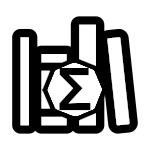
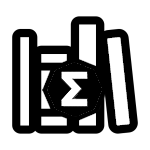
img updates

Changed region(s): [[0.2933, 0.4, 0.6933, 0.7733]]

diff --git a/Netnotes/src/main/java/com/netnotes/RangeBar.java b/Netnotes/src/main/java/com/netnotes/RangeBar.java
@@ -180,12 +180,14 @@ public class RangeBar extends ImageView implements ControlInterface{
             MenuButton rangeStyleBtn = new MenuButton(m_rangeStyle.getName());
             rangeStyleBtn.setPrefWidth(60);
             rangeStyleBtn.setPrefHeight(20);
+
             HBox rangeStyleBox = new HBox(rangeStyleBtn);
             rangeStyleBox.setId("urlField");
+            rangeStyleBox.setPrefHeight(20);
          
             VBox rangeStyleBtnBox = new VBox(rangeStyleBox);
             rangeStyleBtnBox.setAlignment(Pos.CENTER);
-            rangeStyleBtnBox.setPadding(new Insets(3,5,3,5));
+            rangeStyleBtnBox.setPadding(new Insets(0,5,0,5));
             
            
             MenuItem autoRangeStyleItem = new MenuItem(RangeStyle.AUTO);
@@ -556,11 +558,11 @@ public class RangeBar extends ImageView implements ControlInterface{
 
             if (m_topVvalue.get() == 1 && m_bottomVvalue.get() == 0) {
 
-                Drawing.fillArea(m_imgBuf,m_pR, m_pW, 0x50111111, x1, (height / 2) - 10, x2, (height / 2) + 10, true);
+               // Drawing.fillArea(m_imgBuf,m_pR, m_pW, 0x50111111, x1, (height / 2) - 10, x2, (height / 2) + 10, false);
 
-             //   Drawing.drawImageExact(m_imgBuf, m_pR, m_pW, m_collapseImage, m_collapseImage.getPixelReader(), (int) ((width/2) - (m_collapseImage.getWidth()/2) ),(int)( (height / 2) - (m_collapseImage.getHeight() / 2)), false);
+               // Drawing.drawImageExact(m_imgBuf, m_pR, m_pW, m_collapseImage, m_collapseImage.getPixelReader(), (int) ((width/2) - (m_collapseImage.getWidth()/2) ),(int)( (height / 2) - (m_collapseImage.getHeight() / 2)), true);
                //WritableImage img, PixelReader pR1, PixelWriter pW1, Image img2, int x1, int y1, int limitAlpha
-               Drawing.drawImageLimit(m_imgBuf, m_pR, m_pW, m_collapseImage, (int) ((width/2) - (m_collapseImage.getWidth()/2) ),(int)( (height / 2) - (m_collapseImage.getHeight() / 2)), 0x40);
+               Drawing.drawImageLimit(m_imgBuf, m_pR, m_pW, m_collapseImage, (int) ((width/2) - (m_collapseImage.getWidth()/2) ),(int)( (height / 2) - (m_collapseImage.getHeight() / 2)), 0x70);
             }
         } else {
             Drawing.fillArea(m_imgBuf,m_pR, m_pW, 0x20ffffff, 2, 0, width-3, height, true);

diff --git a/Netnotes/src/main/java/com/netnotes/SpectrumChartView.java b/Netnotes/src/main/java/com/netnotes/SpectrumChartView.java
@@ -1080,8 +1080,8 @@ public class SpectrumChartView {
         
         
 
-        BigDecimal topRangePrice = isAuto ? highValue.add(spacing) : (isRangeSetting ? BigDecimal.valueOf(topVvalue * (Math.floor(chartHeight / rowHeight) * rowHeight)).divide(scale, 15, RoundingMode.HALF_UP) : rangeStyle.getTopValue());
-        BigDecimal botRangePrice = isAuto ? lowValue.subtract(spacing) : (isRangeSetting? BigDecimal.valueOf(bottomVvalue * (Math.floor(chartHeight / rowHeight) * rowHeight)).divide(scale, 15, RoundingMode.HALF_UP) : rangeStyle.getBotValue());
+        BigDecimal topRangePrice = isAuto ? highValue.add(spacing) : (isRangeSetting ? BigDecimal.valueOf(topVvalue * chartHeight).divide(scale, 15, RoundingMode.HALF_UP) : rangeStyle.getTopValue());
+        BigDecimal botRangePrice = isAuto ? lowValue.subtract(spacing) : (isRangeSetting? BigDecimal.valueOf(bottomVvalue * chartHeight).divide(scale, 15, RoundingMode.HALF_UP) : rangeStyle.getBotValue());
 
 
         botRangePrice = botRangePrice.max(BigDecimal.ZERO);

diff --git a/Netnotes/src/main/java/com/netnotes/Drawing.java b/Netnotes/src/main/java/com/netnotes/Drawing.java
@@ -568,7 +568,7 @@ public class Drawing {
                 int img2x = x - x1;
                 int img2y = y - y1;
                 
-                if(img2x > -1 && img2x < img2.getWidth() && img2y > -1 && img2y < img2.getWidth() && x > -1 && x < img.getWidth() && y > -1 && y < img.getHeight()){
+                if(img2x > -1 && img2x < width && img2y > -1 && img2y < height && x > -1 && x < img.getWidth() && y > -1 && y < img.getHeight()){
                 
                     int rgba = pR.getArgb(img2x, img2y);
                    
